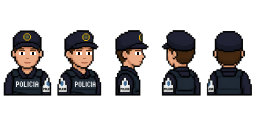
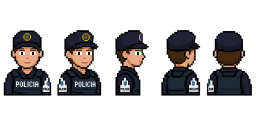
fix(ui): sin cortes ni scroll en desktops de poca altura (ej. 1024x600)
Testing con usuarios reales encontró recortes de contenido en resoluciones
desktop bajas: /interactivo es h-screen + overflow-hidden (sin scroll por
diseño) y el chrome vertical asumía viewports de >=700px.

Solución en dos capas:

1) Breakpoint `short` (min-width 768px + max-height 700px, tailwind screens
   raw): comprime el chrome SOLO en desktop bajo — desktop normal y mobile no
   cambian:
   - VizHeader: oculta la línea entidad·año, título más chico, descripción a
     1 línea (title= para leerla completa), márgenes mínimos.
   - Explorador: paddings/tabs/fila de compartir comprimidos.
   - EntityGrid y selector de temáticas: gaps y paddings reducidos.
   - Nosotros: contenido expandido de las cards con max-h + scroll interno.

2) Las multitudes se ACHICAN en vez de recortarse:
   - IsotypeDistributionViz: el canvas pasa a width/height auto con
     maxHeight max(220px, calc(100vh - 430px)) — en pantallas bajas se escala
     hacia abajo manteniendo el aspecto.
   - Matriz/Serie isotype: mínimos de alto medido 240->170 y rowBudget 90->56
     (la escala interna ya se adapta al espacio medido).
   - MapViz: mínimo de alto disponible 240->200.

typecheck + lint en verde; todas las rutas 200; variante short presente en el
CSS generado.

Changed region(s): [[0.625, 0.2188, 0.8125, 0.75]]

diff --git a/src/components/interactive/InteractiveLayout.tsx b/src/components/interactive/InteractiveLayout.tsx
@@ -73,7 +73,7 @@ export default function InteractiveLayout() {
       {/* Nav superior: al elegir temática el logo viaja al CENTRO (animación
           de layout con spring, ver pica-ui) y "Nosotros" desaparece — dentro
           de los datos no importa nada más que los datos. */}
-      <header className="z-10 grid grid-cols-3 items-center p-6">
+      <header className="z-10 grid grid-cols-3 items-center p-6 short:py-2">
         {/* Breadcrumb (izquierda) cuando hay temática */}
         {tema && (
           <nav
@@ -157,7 +157,7 @@ export default function InteractiveLayout() {
         {/* Estado 1 — sin temática: selector */}
         {!tema && (
           /* MOBILE: tarjetas compactas en columna — las 5 entran SIN scroll. */
-          <div className="flex h-full flex-col items-center justify-center gap-10 px-8 max-md:gap-5">
+          <div className="flex h-full flex-col items-center justify-center gap-10 px-8 max-md:gap-5 short:gap-4">
             <h1 className="font-display text-pica-heading-2 font-bold text-text-primary max-md:text-3xl">
               ¿Qué querés explorar?
             </h1>
@@ -167,13 +167,13 @@ export default function InteractiveLayout() {
                   key={t}
                   type="button"
                   onClick={() => setParams({ tema: t })}
-                  className="flex w-44 flex-col items-center gap-3 rounded-lg border-2 px-6 py-6 transition-transform hover:scale-105 max-md:w-full max-md:flex-row max-md:justify-start max-md:gap-4 max-md:px-4 max-md:py-2"
+                  className="flex w-44 flex-col items-center gap-3 rounded-lg border-2 px-6 py-6 transition-transform hover:scale-105 short:py-3 max-md:w-full max-md:flex-row max-md:justify-start max-md:gap-4 max-md:px-4 max-md:py-2"
                   style={{ borderColor: TEMA_COLOR[t] }}
                 >
                   <img
                     src={assetUrl(THEME_STATIC[t])}
                     alt=""
-                    className="h-24 w-auto max-md:h-10"
+                    className="h-24 w-auto max-md:h-10 short:h-14"
                     style={{ imageRendering: 'pixelated' }}
                   />
                   <span

diff --git a/src/components/interactive/CharacteristicExplorer.tsx b/src/components/interactive/CharacteristicExplorer.tsx
@@ -55,7 +55,7 @@ export default function CharacteristicExplorer({
   }, [activeIndex, datasets, onChangeCaracteristica, onUnlockEntidad]);
 
   return (
-    <div className="flex h-full flex-col px-6 pb-8 pt-2 md:px-12">
+    <div className="flex h-full flex-col px-6 pb-8 pt-2 short:pb-3 short:pt-0 md:px-12">
       {/* Fila de características como pestañas, con una línea de margen a margen
           (full-bleed) que deja claro que se puede cambiar entre categorías. */}
       <div
@@ -72,7 +72,7 @@ export default function CharacteristicExplorer({
               role="tab"
               aria-selected={isActive}
               onClick={() => onChangeCaracteristica(d.id)}
-              className="-mb-px shrink-0 whitespace-nowrap border-b-2 px-1 pb-3 pt-1 font-display text-pica-button font-bold transition-colors max-md:py-3"
+              className="-mb-px shrink-0 whitespace-nowrap border-b-2 px-1 pb-3 pt-1 font-display text-pica-button font-bold transition-colors max-md:py-3 short:pb-2 short:pt-0"
               style={{
                 borderColor: isActive ? color : 'transparent',
                 color: isActive ? color : '#A0A09A',
@@ -86,7 +86,7 @@ export default function CharacteristicExplorer({
 
       {/* Barra: compartir (solo estadísticas de personas en el MVP) */}
       {active && shareable && (
-        <div className="mt-3 flex justify-end">
+        <div className="mt-3 flex justify-end short:mt-1">
           <ShareStory dataset={active} />
         </div>
       )}
@@ -94,7 +94,7 @@ export default function CharacteristicExplorer({
       {/* Visualización activa — encabezado anclado arriba (nunca se corta el
           título) + viz centrada debajo, sin scroll en desktop. En MOBILE el
           contenido suele ser más alto que el viewport → scroll vertical. */}
-      <div className="mt-3 flex min-h-0 flex-1 items-start justify-center overflow-hidden max-md:overflow-y-auto">
+      <div className="mt-3 flex min-h-0 flex-1 items-start justify-center overflow-hidden max-md:overflow-y-auto short:mt-1">
         <AnimatePresence mode="wait">
           {active && (
             <motion.div

diff --git a/src/components/interactive/EntityGrid.tsx b/src/components/interactive/EntityGrid.tsx
@@ -35,8 +35,8 @@ export default function EntityGrid({ tema, entidades, onSelect }: EntityGridProp
   return (
     // En mobile las tarjetas van a 1 columna (más alto que el viewport) →
     // scroll vertical; en desktop entra todo y queda centrado.
-    <div className="flex h-full flex-col px-6 pb-10 pt-4 max-md:overflow-y-auto md:px-12">
-      <header className="mb-8 text-center">
+    <div className="flex h-full flex-col px-6 pb-10 pt-4 max-md:overflow-y-auto short:pb-4 short:pt-1 md:px-12">
+      <header className="mb-8 text-center short:mb-3">
         <p
           className="font-display text-pica-subtitle font-bold uppercase"
           style={{ color, letterSpacing: '0.12em' }}
@@ -52,7 +52,7 @@ export default function EntityGrid({ tema, entidades, onSelect }: EntityGridProp
         variants={container}
         initial="hidden"
         animate="show"
-        className="mx-auto grid w-full max-w-6xl flex-1 content-center grid-cols-[repeat(auto-fit,minmax(220px,1fr))] gap-5 max-md:content-start"
+        className="mx-auto grid w-full max-w-6xl flex-1 content-center grid-cols-[repeat(auto-fit,minmax(220px,1fr))] gap-5 max-md:content-start short:gap-3"
       >
         {entidades.map((entidad) => {
           const count = getCaracteristicas(tema, entidad).length;
@@ -63,7 +63,7 @@ export default function EntityGrid({ tema, entidades, onSelect }: EntityGridProp
                 onClick={() => onSelect(entidad)}
                 whileHover={shouldReduce ? undefined : { y: -6 }}
                 aria-label={`Explorar ${entidad}`}
-                className="group flex h-full w-full flex-col items-center gap-4 rounded-lg border-2 bg-white/[0.03] px-6 py-8 text-center transition-shadow"
+                className="group flex h-full w-full flex-col items-center gap-4 rounded-lg border-2 bg-white/[0.03] px-6 py-8 text-center transition-shadow short:gap-2 short:py-4"
                 style={{ borderColor: `${color}55` }}
                 onMouseEnter={(e) => {
                   e.currentTarget.style.borderColor = color;

diff --git a/src/components/interactive/DataViz/VizShared.tsx b/src/components/interactive/DataViz/VizShared.tsx
@@ -20,16 +20,18 @@ export function VizHeader({
   center?: boolean;
 }) {
   return (
-    <header className={`${compact ? 'mb-3' : 'mb-6'}${center ? ' text-center' : ''}`}>
-      <p className="font-sans text-pica-subtitle uppercase tracking-widest text-text-muted">
+    // short: (desktop bajo, ej. 1024×600) comprime el encabezado para que la
+    // visualización entre sin scroll ni corte.
+    <header className={`${compact ? 'mb-3' : 'mb-6'} short:mb-1${center ? ' text-center' : ''}`}>
+      <p className="font-sans text-pica-subtitle uppercase tracking-widest text-text-muted short:hidden">
         {dataset.entidad} · {dataset.anio}
       </p>
-      <h2 className="font-display text-pica-title font-bold text-text-primary">
+      <h2 className="font-display text-pica-title font-bold text-text-primary short:text-2xl short:leading-7">
         {dataset.caracteristica}
       </h2>
       <p
-        className={`mt-2 max-w-xl font-sans text-pica-subtitle text-text-secondary${compact ? ' line-clamp-2' : ''}${center ? ' mx-auto' : ''}`}
-        title={compact ? dataset.descripcion : undefined}
+        className={`mt-2 max-w-xl font-sans text-pica-subtitle text-text-secondary short:mt-0 short:line-clamp-1${compact ? ' line-clamp-2' : ''}${center ? ' mx-auto' : ''}`}
+        title={dataset.descripcion}
       >
         {dataset.descripcion}
       </p>

diff --git a/src/components/interactive/DataViz/IsotypeMatrixViz.tsx b/src/components/interactive/DataViz/IsotypeMatrixViz.tsx
@@ -89,7 +89,7 @@ export default function IsotypeMatrixViz({ data }: { data: DatasetMatriz }) {
       const rect = el.getBoundingClientRect();
       setFit({
         cw: Math.max(360, el.clientWidth - 112 /* columna de etiquetas (7rem) */),
-        ah: Math.max(240, window.innerHeight - rect.top - 150),
+        ah: Math.max(170, window.innerHeight - rect.top - 150),
       });
     };
     update();
@@ -114,7 +114,7 @@ export default function IsotypeMatrixViz({ data }: { data: DatasetMatriz }) {
     let per = matrixScale(sum, data.unidad).per;
     const rowH = MARGIN * 2 + (CELL_ROWS - 1) * PITCH_Y + C_H * SCALE;
     // Alto disponible por fila (reservando la leyenda y separación entre filas)
-    const rowBudget = Math.max(90, (fit.ah - 48) / vLabels.length - 4);
+    const rowBudget = Math.max(56, (fit.ah - 48) / vLabels.length - 4);
 
     const compute = (p: number) => {
       const counts = vLabels.map((_, v) => hLabels.map((_, h) => figureCount(valueAt(v, h), p)));

diff --git a/src/components/interactive/DataViz/IsotypeDistributionViz.tsx b/src/components/interactive/DataViz/IsotypeDistributionViz.tsx
@@ -178,8 +178,15 @@ export default function IsotypeDistributionViz({ data }: { data: DatasetDistribu
           width={W}
           height={H}
           aria-hidden="true"
-          className="w-full"
-          style={{ imageRendering: 'pixelated', maxWidth: W }}
+          className="mx-auto"
+          style={{
+            imageRendering: 'pixelated',
+            width: 'auto',
+            height: 'auto',
+            maxWidth: '100%',
+            // En pantallas bajas la multitud se ACHICA en vez de recortarse
+            maxHeight: 'max(220px, calc(100vh - 430px))',
+          }}
         />
       </div>
 

diff --git a/src/app/nosotros/page.tsx b/src/app/nosotros/page.tsx
@@ -270,7 +270,7 @@ export default function NosotrosPage() {
                         transition={{ duration: shouldReduce ? 0 : 0.3, ease: [0.22, 1, 0.36, 1] }}
                         className="overflow-hidden"
                       >
-                        <div className="px-5 pb-5">
+                        <div className="px-5 pb-5 short:max-h-[45vh] short:overflow-y-auto">
                           {card.form ? (
                             <div className="mt-3">
                               <FeedbackForm color={card.color} />

diff --git a/src/components/interactive/DataViz/MapViz.tsx b/src/components/interactive/DataViz/MapViz.tsx
@@ -195,7 +195,7 @@ export default function MapViz({ data }: { data: DatasetEspacial }) {
     if (!el) return;
     const update = () => {
       const rect = el.getBoundingClientRect();
-      const avail = Math.max(240, window.innerHeight - rect.top - 190);
+      const avail = Math.max(200, window.innerHeight - rect.top - 190);
       setFit({
         mapW: Math.round(Math.min(430, ((avail - 30) * 480) / 520)),
         // panel: nombre+número+delta ≈ 130px; el resto para la multitud

diff --git a/tailwind.config.ts b/tailwind.config.ts
@@ -9,6 +9,11 @@ const config: Config = {
   ],
   theme: {
     extend: {
+      screens: {
+        // Desktop con POCA ALTURA (ej. 1024×600, netbooks/proyectores):
+        // comprime el chrome vertical para que todo entre sin scroll ni corte.
+        short: { raw: '(min-width: 768px) and (max-height: 700px)' },
+      },
       colors: {
         // Paletas de datos — solo para visualizaciones y acentos temáticos
         pica: picaColors,

diff --git a/src/components/interactive/DataViz/IsotypeTimeSeriesViz.tsx b/src/components/interactive/DataViz/IsotypeTimeSeriesViz.tsx
@@ -85,7 +85,7 @@ export default function IsotypeTimeSeriesViz({ data }: { data: DatasetSerie }) {
       const rect = el.getBoundingClientRect();
       setFit({
         cw: Math.max(360, el.clientWidth),
-        ah: Math.max(240, window.innerHeight - rect.top - 150),
+        ah: Math.max(170, window.innerHeight - rect.top - 150),
       });
     };
     update();
